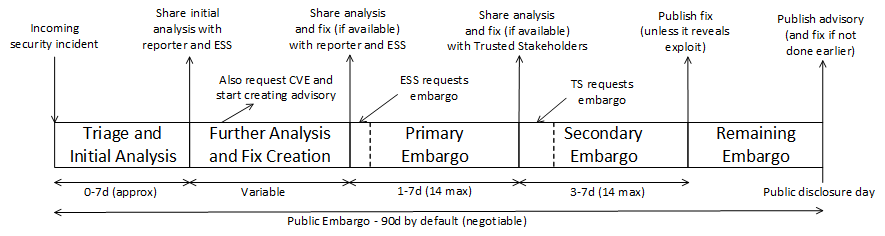
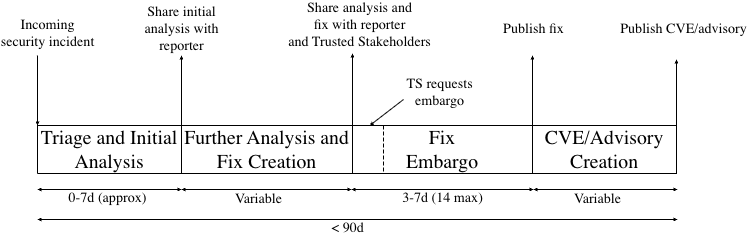
Update security incident handling process
Significant updates to security incident handling process to make it more
manageable for security teams due to the explosion in AI-assisted reports.

* Reporters should use the project specific aliases directly instead of the
  top-level security alias.

* Reporters are encouraged to submit a fix and include the relevant code owners
  where possible.

* Make the 2-phase disclosure process (Especially Sensitive Stakeholders +
  Trusted Stakeholders) 1-phase (only retaining the latter).

* Clarify that multiple fix disclosures may be batched in 1 notification.

* Focus the embargo on the deployment of the fix. As a result, projects that
  do not deliver fixes under embargo (e.g. Mbed TLS) do not have a fix
  embargo, though they still should provide notifications to TS.

* Publish CVEs after the fix is published. Clarify that these may be batched.

* Update security team guidelines to reflect the above changes.

* Update diagram to reflect above changes.

diff --git a/security_center/incident_handling_process.rst b/security_center/incident_handling_process.rst
@@ -10,18 +10,12 @@ If you think you have found a security vulnerability in Trusted Firmware
 this process.
 
 If you think you have found a security vulnerability in Trusted Firmware
-projects then please send an email to the Trusted Firmware security team at
-security@lists.trustedfirmware.org. You may also use the project specific
-security team aliases :doc:`here <mailing_aliases>`. These are private teams of
-security officers who will help verify the security vulnerability, develop and
-release a fix, and disclose the vulnerability details responsibly. The security
-teams are referred to from now on as "us/we/our". We do our best to respond and
-fix any issues as soon as possible.
-
-Arm separately runs a bug bounty program for Trusted Firmware projects via the
-`Intigriti <https://app.intigriti.com/programs/arm/trustedfirmware/detail>`__
-platform. If you are eligible and your vulnerability is in scope, you may submit
-your report there instead of using this process.
+projects then please send an email to one or more of the relevant project
+specific security team aliases :doc:`here <mailing_aliases>`. These are private
+teams of security officers who will help verify the security vulnerability,
+develop and release a fix, and disclose the vulnerability details responsibly.
+The security teams are referred to from now on as "us/we/our". We do our best
+to respond and fix any issues as soon as possible.
 
 IP security issues are out of scope of this process. Depending on the type of
 IP, please contact Arm PSIRT, your Arm account manager or the IP vendor's PSIRT
@@ -34,18 +28,17 @@ and their Product Security Incident Response Teams (PSIRT) directly. If we
 receive such reports, we reserve the right to forward them ourselves.
 
 As with any bug, the more information you provide, the easier it is to diagnose
-and fix. If you already have a fix, please include it with your report, as that
-can speed up the process considerably. Any exploit code is very helpful. We may
-bring in extra help from area maintainers to understand and fix the
-vulnerability.
+and fix. We encourage you to provide a fix and to include the relevant code
+owners in the report, as that can speed up the process considerably. Any
+exploit code is very helpful. We may bring in extra help to understand and
+fix the vulnerability.
 
 Please let us know your disclosure plans if you have any. This may affect our
 disclosure plan as described in the next section.
 
 Please indicate any sensitive information you do not wish us to share. We
 reserve the right to share any information you provide with trusted third
-parties and eventually the public unless you request otherwise. We will credit
-you in any security advisory unless you request otherwise.
+parties and eventually the public unless you request otherwise.
 
 You may use :download:`this PGP/GPG key <pub_security_at_trustedfirmware_subkeys_3.asc>`
 for encrypting the vulnerability information. This key is also available at
@@ -76,96 +69,64 @@ coordinated with the reporter or other stakeholders.
 
 1. For confirmed security vulnerabilities, we will develop a robust fix as soon
    as possible. During this time, we will only share information with the
-   reporter, those needed to develop the fix and Especially Sensitive
-   Stakeholders (ESSes). See the :ref:`ts_registration_label` section for more
-   information about ESSes and Trusted Stakeholders. If the fix is particularly
-   difficult to implement, we may proceed to subsequent steps without a fix.
-   The fix will include backports to live Long Term Stable (LTS) branches,
-   though delivery of those backports may be deferred until they are required.
+   reporter and those needed to develop the fix.
+
+   The fix will include backports to active Long Term Stable (LTS) branches,
+   though delivery of some backports may be deferred until they are required
+   to avoid delaying disclosure and deployment of the fix.
+
+   Security fixes will contain the minimum information required to fix the
+   bug. Any additional vulnerability details will be published later, in step
+   4 below.
 
 2. After a robust fix becomes available, our preference is to publicly release
    it as soon as possible. We will automatically do this if the vulnerability
-   is already publicly known.
+   is already publicly known. Otherwise, we will share the fix and relevant
+   vulnerability information with
+   :ref:`registered Trusted Stakeholders (TS) <ts_registration_label>`. We may
+   batch multiple vulnerabilities into a single notification.
 
-   Security fixes should contain the minimum information required to fix the
-   bug. We will usually publicly disclose the corresponding vulnerability
-   details later, on the public disclosure date (see step 5 below).
-
-   We may defer public release of the fix if the reporter requests it or we
-   think the fix contains enough information for a skilled attacker to
-   re-construct the exploit. In this case we will publicly release the fix on
-   the public disclosure date. This will not prevent the fix from being shared
-   with ESSes and Trusted Stakeholders before public disclosure (but see export
-   control restriction below).
-
-   We may also defer public release of the fix if an ESS requests it within 1
-   calendar day of being notified and we agree the criticality of the
-   vulnerability requires more time. The ESS requested deferral period should
-   be as short as possible, up to 7 calendar days after the fix becomes
-   available, with an exceptional extension to 14 calendar days. The only valid
-   reason for release deferral is to accommodate deployment of the fix by
-   ESSes. If it is immediately clear that ESSes are unaffected by the
-   vulnerability then we will skip this stage. This 0-14 day deferral is the
-   primary embargo period.
+   We may embargo the fix if a TS requests it within 3 working days of being
+   notified (Monday to Friday, in their time zone), and we agree the
+   criticality of the vulnerability requires more time for fix deployment. The
+   requested embargo period should be as short as possible, up to 7 calendar
+   days after the TS receives the fix, with an exceptional extension to 14
+   days. The only valid reason for requesting an embargo is to enable the TS
+   to deploy the fix. If the fix requires further refinement during the embargo
+   period, then the fix embargo period will restart.
 
    Due to export control restrictions, some Trusted Firmware projects may not
-   be allowed to distribute the fix privately. For such projects, if an ESS
-   requests it, we may allow ESSes a reasonable extension to the primary
-   embargo period to develop and deploy their own fix. This period should be as
-   short as possible and must always allow enough time for Trusted Stakeholders
-   to develop and deploy their own fixes before public disclosure.
+   be allowed to distribute the fix privately. For such projects, there is no
+   fix embargo period, but we will notify TS of the vulnerability ahead of
+   public release, to enable them to prepare for fix deployment.
 
-3. After the primary embargo period, we will share the fix (where possible)
-   and relevant vulnerability information with registered Trusted Stakeholders.
-   We may defer fix release further if a Trusted Stakeholder requests it within
-   3 working days of being notified (Monday to Friday, in their time zone), and
-   we agree the criticality of the vulnerability requires more time. The
-   requested deferral period should be as short as possible, up to 7 calendar
-   days after the Trusted Stakeholder is notified, with an exceptional
-   extension to 14 days. The only valid reason for further release deferral is
-   to accommodate deployment of the fix by a Trusted Stakeholder. This further
-   3-14 day deferral is the secondary embargo period.
+3. We will release the fix publicly to mainline and affected LTS branches.
 
-   For Trusted Firmware projects that are not allowed to distribute the fix
-   privately due to export control restrictions, if a Trusted Stakeholder
-   requests it, we may allow Trusted Stakeholders a reasonable extension to the
-   secondary embargo period to develop and deploy their own fix. This period
-   should be as short as possible and must always complete before the public
-   disclosure date. In this case the fix will be publicly released after the
-   secondary embargo period.
+4. After fix is released, we will publish a corresponding CVE. Some projects
+   may also publish a security advisory. We may choose to batch these
+   CVE/advisory publications, for example on a fixed schedule or at release
+   time.
 
-4. After fix implementation, we will consolidate details of the security
-   vulnerability into a security advisory. This includes a CVE number and we
-   will request one if not already done by the reporter. We will circulate
-   drafts of the security advisory with the reporter, ESSes and Trusted
-   Stakeholders if they contain significant updates to earlier notifications.
-
-5. At the agreed public disclosure date, by default 90 days after the
-   vulnerability was reported, we will publicize the final security advisory
-   and fix (if not already available) at https://www.trustedfirmware.org.
-   This window from reporting to public disclosure is the public embargo
-   period.
+   We aim to complete this process as soon as possible and no later than 90
+   days after the vulnerability was first reported.
 
 .. _embargoed_info_label:
 
-Handling embargoed information
-------------------------------
+Handling embargoed (non-public) information
+-------------------------------------------
 On receipt of embargoed information, you must not disclose any of the provided
 information beyond the group of people in your organization that need to know
-about it. During the primary and secondary embargo periods, that group of
-people should be limited to those entrusted to assess the impact of the
-vulnerability on your organization and deploy fixes to your products. After
-the secondary embargo period but during the public embargo period, that group
-of people may be expanded in order to prepare your organization's public
-response. The embargoed information must not be shared outside your
-organization during the public embargo period under any circumstances. It is
-permitted to point others to a public fix during an embargo period, as long as
-the vulnerability details are not leaked.
+about it. During any fix embargo period, that group of people should be limited
+to those entrusted to assess the impact of the vulnerability on your
+organization and deploy fixes to your products. After the the fix is public,
+that group of people may be expanded in order to prepare your organization's
+public response. Embargoed information must not be shared outside your
+organization under any circumstances.
 
-If you think another individual/organization requires access to the embargoed
+If you think another individual/organization requires access to embargoed
 information, then please ask them to :ref:`register <ts_registration_label>`
-as a Trusted Stakeholder. If you believe there has been a leak of embargoed
-information then please notify us immediately.
+as a TS. If you believe there has been a leak of embargoed information then
+please notify us immediately.
 
 We welcome feedback on embargoed information at any time.
 
@@ -175,13 +136,13 @@ Trusted Stakeholder registration
 --------------------------------
 The security team of each Trusted Firmware project maintains a private, vetted
 list of organizations and individuals who are considered Trusted Stakeholders
-of security vulnerabilities for that project. Trusted Stakeholders are
-organizations impacted by security vulnerabilities found in a Trusted Firmware
-project and thus need to be informed before public disclosure.
+(TS) of security vulnerabilities for that project. TS are organizations
+impacted by security vulnerabilities found in a Trusted Firmware project and
+thus need to be informed before public disclosure.
 
-If you want to register as a Trusted Stakeholder, please contact the relevant
-security team alias(es) as listed :doc:`here <mailing_aliases>`, providing the
-following information:
+If you want to register as a TS, and the project support's the TS process,
+please contact the relevant project security team alias(es) as listed
+:doc:`here <mailing_aliases>`, providing the following information:
 
 1. Which Trusted Firmware project(s) you want to register for.
 
@@ -200,14 +161,6 @@ following information:
    embargoed information responsibly as described in the
    :ref:`embargoed_info_label` section.
 
-Where applicable, the project security teams also maintain an
-**E**\ specially **S**\ ensitive **S**\ takeholder (**ESS**) list. This list is
-strictly limited to those organizations that use Trusted Firmware for large
-scale deployments providing bare-metal access on multi-tenancy systems, and
-organizations that supply Trusted Firmware to such deployments. You may use
-the same email address above to register for this list but in almost all cases
-we expect the Trusted Stakeholder list to be used instead.
-
 Note, we reserve the right to deny registration or revoke membership to the
-stakeholders lists, for example if we have concerns about the confidentiality
+TS lists, for example if we have concerns about the confidentiality
 of embargoed information.

diff --git a/security_center/security_team_guidelines.rst b/security_center/security_team_guidelines.rst
@@ -33,41 +33,23 @@ but that is not a pre-requisite of this process.
 
 Triage
 ------
-(All responses to the reporter should cc security@lists.trustedfirmware.org)
 
 1. New incident comes into security@lists.trustedfirmware.org.
 
-2. Someone on security@lists.trustedfirmware.org replies to the list
-   as soon as possible to say they will be the triager for the incident. This
-   should preferably be the representative for the relevant project but can be
-   another member. 
-
-3. The triager analyses the incident as soon as possible and always within 3
+2. The triager analyses the incident as soon as possible and always within 3
    working days (Monday to Friday in their timezone) of the initial report.
 
    a. If the incident is obviously not a security vulnerability, the triager
       rejects it, giving the standard rejection response to the reporter with
       specific rejection reasoning.
 
-   b. Otherwise the triager accepts the incident, giving the standard holding
-      response to the reporter. They forward the incident to the appropriate
-      *<project>-security@lists.trustedfirmware.org* if not done already.
+   b. Otherwise the triager forwards the incident to the appropriate
+      project security team(s) if not done already, providing the reporter's
+      contact details.
 
-   In some cases the incident may affect more than one project; in such cases
-   the triager should act as the reporter's point of contact for the incident.
-   If the incident only affects one project, the project incident handler
-   (see below) is the point of contact. If the relevant project(s) are not
-   clear then the triager pulls in other members of
-   security@lists.trustedfirmware.org or the project security teams
-   as appropriate until this is determined.
-    
-4. The triager is responsible for ensuring the relevant project security team
-   is handling the process as defined here in a timely manner. They should also
-   act as the reporter's backup point of contact if the project security team
-   is not functioning properly.
-
-5. The other members of security@lists.trustedfirmware.org are responsible for
-   picking up the duties of the triager if the triager becomes unavailable.
+3. In general, security@lists.trustedfirmware.org should not be involved in
+   subsequent handling of the incident but it may act as an escalation point
+   if handling by the project security team(s) is not functioning properly.
 
 
 Project handling
@@ -97,45 +79,35 @@ Project handling
 
 4. The project incident handler consolidates the information gathered on the
    (potential) vulnerability so far and shares that information with the
-   reporter [#f2]_ and *<project>-ess-notify@lists.trustedfirmware.org* (if
-   applicable to project). As part of this communication, it's possible that
-   the (potential) vulnerability is downgraded to a normal bug. For confirmed
+   reporter [#f2]_. As part of this communication, it's possible that the
+   (potential) vulnerability is downgraded to a normal bug. For confirmed
    vulnerabilities, the project incident handler arranges for someone to fix
-   the vulnerability and as a lower priority, someone to begin drafting a
-   security advisory. They must ensure that any sensitive information [#f3]_ the
-   reporter provides is stripped out before communication outside the security
-   teams. They should also request a CVE from Mitre at this stage if not
-   already done by the reporter.
+   the vulnerability and at a lower priority, request a CVE from Linaro and
+   optionally begin drafting a security advisory. They must ensure that any
+   sensitive information the reporter provides is stripped out before
+   communication outside the security teams.
 
 5. The project incident handler is responsible for negotiating
-   embargo/disclosure timelines with the reporter [#f2]_ and stakeholders, and
-   keeping them informed throughout the remainder of the process. Triggers for
-   new updates include: new vulnerability fix available, new advisory draft
-   available, fix/advisory becoming public, vulnerability status change (e.g.
-   severity changed, new exploit found, change in disclosure plan, ...).
+   embargo/disclosure timelines with the reporter [#f2]_ and Trusted
+   Stakeholders, and keeping them informed throughout the remainder of the
+   process.
 
 6. After a fix for the vulnerability is available, the project incident handler
-   shares the fix with the reporter [#f2]_ and
-   *<project>-ess-notify@trustedfirmware.org* via email (unless the projects
-   is not allowed to distribute the fix due to export control restrictions). If
-   an embargo is agreed with an ESS, the primary embargo period starts.
+   shares the fix and latest vulnerability information with the reporter [#f2]_
+   and *<project>-trusted-stakeholder-notify@lists.trustedfirmware.org*. The
+   fix embargo period starts.
 
-7. After the primary embargo period (if applicable) ends, the project incident
-   handler notifies
-   *<project>-trusted-stakeholder-notify@lists.trustedfirmware.org* with the
-   latest information and keeps them informed throughout the remainder of the
-   process. The secondary embargo period starts.
+   If the project is not allowed to distribute the fix privately due to export
+   control restrictions, there is no fix embargo period but
+   *<project>-trusted-stakeholder-notify@lists.trustedfirmware.org* should
+   still be notified before public release, to enable them to prepare for fix
+   deployment. 
 
-8. When the secondary embargo period ends, the project incident handler
-   arranges for the vulnerability fix to be made public (unless public fix
-   release is deferred - see :doc:`incident_handling_process`.
+7. When the fix embargo period ends, the project incident handler
+   arranges for the vulnerability fix to be made public.
 
-9. The project incident handler circulates drafts of the security advisory with
-   the reporter, ESSes and Trusted Stakeholders as they become available.
-
-10. When the public embargo period ends, the project incident handler arranges
-    for the advisory (and vulnerability fix if not done before) to be made
-    public.
+8. The project incident handler arranges for someone in the project to publish
+   a CVE and optionally a security advisory.
 
 
 .. rubric:: Footnotes
@@ -151,6 +123,3 @@ Project handling
    organization and their organization's product information. The reporter may
    specify other sensitive information.
 
-.. [#f3]
-   Or triager for incidents that affect multiple projects since they are the
-   point of contact.

diff --git a/security_center/mailing_aliases.rst b/security_center/mailing_aliases.rst
@@ -1,10 +1,8 @@
 Security Team Mailing Aliases
 =============================
 
-All security vulnerabilities may be reported to
-security@lists.trustedfirmware.org. They will be forwarded to the appropriate
-project security teams(s). Alternatively, there are project specific aliases
-that may be used directly:
+All security vulnerabilities should be reported to one or more of the project
+security team aliases listed below:
 
 * **OP-TEE** : op-tee-security@lists.trustedfirmware.org
 * **Trusted-Firmware-A** : tf-a-security@lists.trustedfirmware.org
